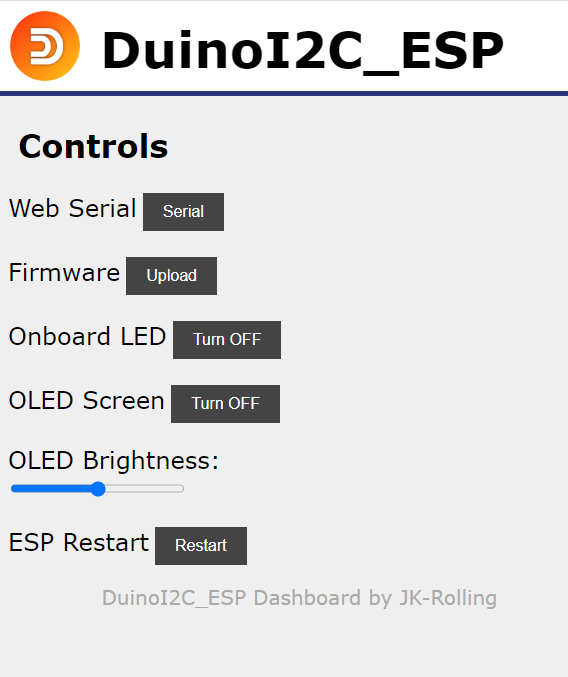
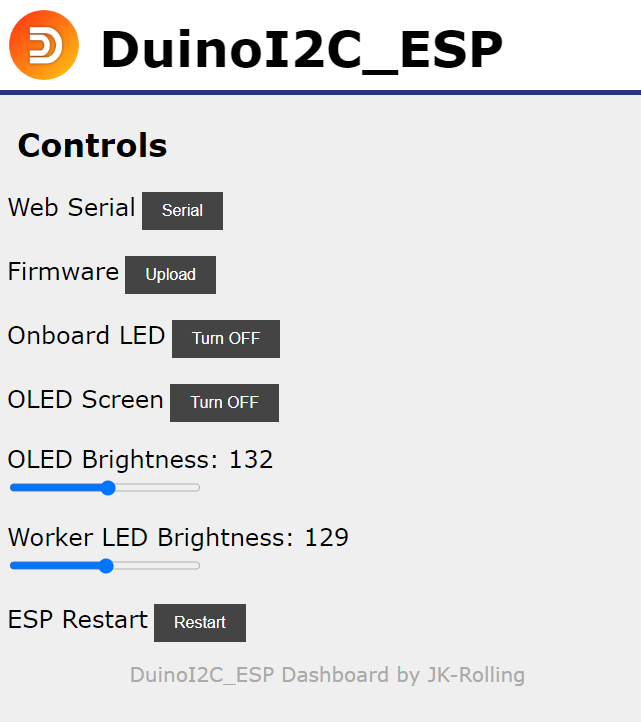
v0.21 dim worker LED

Changed region(s): [[0.0, 0.1861, 0.8979, 0.9616], [0.0, 0.0, 1.0, 0.1551], [0.4789, 0.7134, 0.5387, 0.7755]]

diff --git a/esp8266/README.md b/esp8266/README.md
@@ -4,7 +4,7 @@
 DuinoI2C_ESP is a project designed to run in ESP8266. It'll act as a host to get jobs from Duino-Coin server, then distribute jobs to AVR workers via I2C. DuinoI2C_ESP provides a pre-compiled `.bin` file that you can easily download and upload to your ESP8266.
 
 ## Version
-0.20
+0.21
 
 ## Supported Devices
 This project currently supports the following ESP8266 devices:
@@ -29,15 +29,15 @@ This project currently supports the following ESP8266 devices:
 > ESP-01 with 1MB can use all esp01 .bin listed above but only filename with `ota` can perform over-the-air update successfully due to flash size limitation.
 
 ## Feature
-||SERIAL (500Kbps)|WEB_SERIAL|DASHBOARD|I2C_SCL|OLED|CRC8|OTA|mDNS|OLED PWR via TXRX|
-| :-: | :-: | :-: | :-: | :-: | :-: | :-: | :-: | :-: | :-: |
-| DuinoI2C_ESP.ino.d1_mini.bin | ✅ | ✅ | ✅ | 100KHz | ✅ | ✅ | ✅ | ✅ | :x: |
-| DuinoI2C_ESP.ino.d1_mini.TxRxPwr.bin | :x: | ✅ | ✅ | 100KHz | ✅ | ✅ | ✅ | ✅ | ✅ |
-| DuinoI2C_ESP.ino.adafruit.bin | ✅ | ✅ | ✅ | 100KHz | ✅ | ✅ | ✅ | ✅ | :x: |
-| DuinoI2C_ESP.ino.esp01.bin | ✅ | ✅ | ✅ | 100KHz | ✅ | ✅ | :x: | ✅ | :x: |
-| DuinoI2C_ESP.ino.esp01.ota.bin.gz | :x: | ✅ | :x: | 100KHz | :x: | ✅ | ✅ | :x: | :x: |
-| DuinoI2C_ESP.ino.esp01.400K.bin | ✅ | ✅ | ✅ | 400KHz | ✅ | ✅ | :x: | ✅ | :x: |
-| DuinoI2C_ESP.ino.d1_mini.400K.bin | ✅ | ✅ | ✅ | 400KHz | ✅ | ✅ | ✅ | ✅ | :x: |
+||SERIAL (500Kbps)|WEB_SERIAL|DASHBOARD|I2C_SCL|OLED|CRC8|OTA|mDNS|OLED PWR via TXRX|Dim Worker LED|
+| :-: | :-: | :-: | :-: | :-: | :-: | :-: | :-: | :-: | :-: | :-: |
+| DuinoI2C_ESP.ino.d1_mini.bin | ✅ | ✅ | ✅ | 100KHz | ✅ | ✅ | ✅ | ✅ | :x: | ✅ |
+| DuinoI2C_ESP.ino.d1_mini.TxRxPwr.bin | :x: | ✅ | ✅ | 100KHz | ✅ | ✅ | ✅ | ✅ | ✅ | ✅ |
+| DuinoI2C_ESP.ino.adafruit.bin | ✅ | ✅ | ✅ | 100KHz | ✅ | ✅ | ✅ | ✅ | :x: | ✅ |
+| DuinoI2C_ESP.ino.esp01.bin | ✅ | ✅ | ✅ | 100KHz | ✅ | ✅ | :x: | ✅ | :x: | ✅ |
+| DuinoI2C_ESP.ino.esp01.ota.bin.gz | :x: | ✅ | :x: | 100KHz | :x: | ✅ | ✅ | :x: | :x: | :x: |
+| DuinoI2C_ESP.ino.esp01.400K.bin | ✅ | ✅ | ✅ | 400KHz | ✅ | ✅ | :x: | ✅ | :x: | ✅ |
+| DuinoI2C_ESP.ino.d1_mini.400K.bin | ✅ | ✅ | ✅ | 400KHz | ✅ | ✅ | ✅ | ✅ | :x: | ✅ |
 
 *Note: Contact me in official Duino-Coin [discord](https://discord.gg/duino-coin-677615191793467402) for custom feature combination or place your request in [discussion](https://github.com/JK-Rolling/DuinoI2C_ESP/discussions/2)*
 
